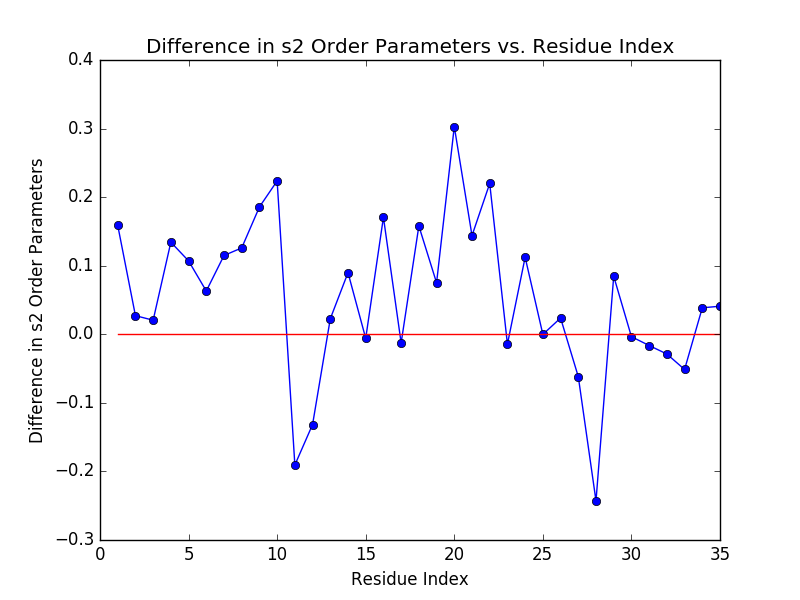
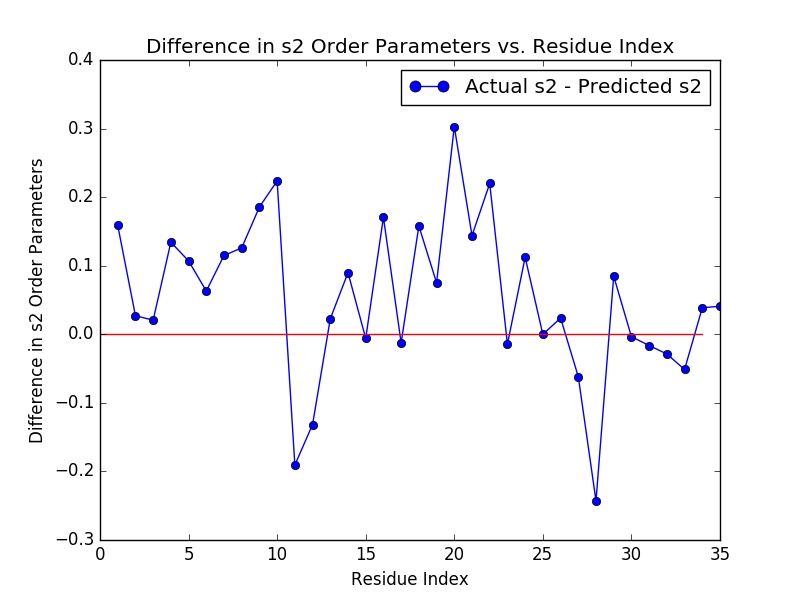
Most recent files for 2l3e Task
Updated build_model_2l3e.py:
* to make plots for resid vs. difference in s2 order parameters (actual
- predicted) for all seven bond vectors
-updated (C1’, H1’) plot - I found a cleaner way to make these plots
* to make a plot of actual vs. predicted s2 order parameters for 2l3e
with information from all seven bond vectors color-coded on one plot

Changed region(s): [[0.5, 0.09, 0.9062, 0.18], [0.875, 0.54, 0.9062, 0.57], [0.125, 0.54, 0.1562, 0.57]]

diff --git a/scripts/build_model_2l3e.py b/scripts/build_model_2l3e.py
@@ -26,8 +26,8 @@ print(reg.score(x_test, y_test))
 ### Compute feature importances ###
 print(reg.coef_)
 ### Predict s2 order parameters ###
-print reg.predict(x_train) #predicted s2 values for all RNAs but 2l3e 
-s2 = reg.predict(x_train)
+print reg.predict(x_test) #predicted s2 values for 2l3e only  
+s2 = reg.predict(x_test)
 s2.tolist()
 ### Save predictive model ###
 joblib.dump(reg, "LR_10.0A_2l3e.pkl", compress=3) 
@@ -53,15 +53,56 @@ plt.legend(handles=[red_patch, blue_patch])
 plt.show()
 
 ### Plotting change in s2 Order Parameters vs Residue Index ###
-x = resid_index
+import matplotlib.lines as mlines
+import matplotlib.pyplot as plt
+x1 = resid_index
+x2 = 0
+y3 = 0
 y = np.subtract(y2, y1)
 y = y.tolist()
-b = []
-for i in x:
-	b.append(i * 0)
 plt.title('Difference in s2 Order Parameters vs. Residue Index')
-plt.plot(x,y, marker='o', linestyle='-', color='b')
-b = plt.plot(x,b, marker='None', linestyle='-', color='r')
+plt.plot(x1,y, marker='o', linestyle='-', color='b')
+plt.plot(x1*y3, marker='None', linestyle='-', color='r')
+blue_line = mlines.Line2D([],[], color='blue', marker='o', markersize=8, label='Actual - Predicted s2 Order Parameters')
+plt.legend(handles=[blue_line])
 plt.xlabel('Residue Index')
 plt.ylabel('Difference in s2 Order Parameters')
+plt.show()
+
+### Plotting Actual s2 order parameters vs. Predicted s2 order parameters ###
+# Actual 2l3e s2 order parameters
+x = [0.797367906216, 0.860580382116, 0.85834926324, 0.853475290909, 0.84357737211, 0.85192871712, 0.856036850328, 0.826133435015, 0.761739309437, 0.665135868177, 0.453229570858, 0.201521645996, 0.809433987834, 0.853889974207, 0.865520170334, 0.850794106766, 0.829504396303, 0.817513651735, 0.802298426107, 0.757504276967, 0.758665738462, 0.773312621189, 0.866488403225, 0.874876185351, 0.862149149714, 0.858208068062, 0.866965686516, 0.610199028269, 0.870025692183, 0.874797518299, 0.864267087396, 0.841471668278, 0.842565632659, 0.818741020547, 0.782915125881, 0.835262157743, 0.849284670213, 0.859660505959, 0.860814379415, 0.847453251849, 0.831138948291, 0.815544812019, 0.799283071469, 0.811626239916, 0.81472899248, 0.698090605191, 0.57109343066, 0.470150178151, 0.362028396382, 0.818951136094, 0.826512552458, 0.82805558862, 0.806618291692, 0.791630762989, 0.57520474948, 0.710715821944, 0.82653742244, 0.83335132482, 0.827892511079, 0.806840390225, 0.814897676407, 0.806696144196, 0.807980407878, 0.814215193123, 0.812090614628, 0.720134378141, 0.572074815485, 0.493056803336, 0.200326011493, 0.843458938273, 0.856641434625, 0.811134529589, 0.844944905513, 0.761653846319, 0.49244675259, 0.753542918394, 0.846242838066, 0.847078897902, 0.82179146662, 0.824002668095, 0.826231136339, 0.832038711102, 0.828714542151, 0.861112734155, 0.850526715075, 0.812798696368, 0.84822100404, 0.822728202034, 0.874904394505, 0.867206635447, 0.854837179833, 0.865127594001, 0.862650338333, 0.8523181086, 0.846256226026, 0.80849970126, 0.810912551567, 0.783033000952, 0.850114682817, 0.842083972225, 0.790685363269, 0.851955697785, 0.869741947045, 0.849369708369, 0.833262831842, 0.839436763634, 0.841538999829, 0.837028010192, 0.838615856332, 0.551313568752, 0.828643820433, 0.780694820364, 0.459574067645]
+# Predicted 2l3e s2 order parameters
+y = [0.6384418447989992, 0.8334062959431285, 0.8378405896281069, 0.7191664900095447, 0.7365458088737709, 0.7888370941796452, 0.7411246293713825, 0.7001611273366437, 0.5760819907478065, 0.4414679112322862, 0.6439058726785942, 0.33313186611131523, 0.7868219267121075, 0.7640205236415312, 0.8714147236804146, 0.6801799803161701, 0.842158525403568, 0.6595779458962869, 0.7272586109951267, 0.4546374387498549, 0.6147569551434617, 0.5533953239333165, 0.8809345158553865, 0.7625756295645274, 0.8623443616119395, 0.8344813076011455, 0.9287273670112455, 0.8531697828337437, 0.7854116456526989, 0.8782824093406976, 0.8806280921395488, 0.8702216408227617, 0.8938667203413952, 0.7801421362731886, 0.7419864081349459, 0.89285718430354, 0.7501011047974606, 0.8715270449935779, 0.8419271783632059, 0.8519885206829716, 0.8066289387212897, 0.6752119485258457, 0.7249117714714697, 0.7237392353569219, 0.7682433945617306, 0.5375660184790483, 0.34827656913424115, 0.6254519911275558, 0.24393267566957438, 0.7904397072982186, 0.661591876749221, 0.7079403705909868, 0.6979317771203626, 0.6783460374948758, 0.41132016126683074, 0.6152840972192706, 0.7013152616684548, 0.8048554844859341, 0.7607425176740994, 0.7129520560910103, 0.8142049022757292, 0.7252434204431359, 0.6642270484841075, 0.7558973159830253, 0.7218574924606445, 0.5525581063506813, 0.31259145396146143, 0.5824018701188407, 0.32028535372253925, 0.7707411692664368, 0.7543917144488856, 0.6573314359242965, 0.6646895439266782, 0.6976883856474394, 0.40525629765170096, 0.6765352051348363, 0.7155214781022872, 0.7609378224070558, 0.7572736962981208, 0.7748401383155892, 0.6607726165870524, 0.8393281087487521, 0.7041274472228813, 0.7896456627526589, 0.7942919176504046, 0.5108615482028174, 0.7764855153974757, 0.85357163938772, 0.907412238982858, 0.846130925395945, 0.6780701735741743, 0.8696475753356931, 0.8328071798860657, 0.8375301721346229, 0.8838060564485406, 0.7308973260287572, 0.7673456518524733, 0.6901023169762694, 0.8411134982655522, 0.8267852765964008, 0.5587215414901989, 0.7906790360141718, 0.8673225653677259, 0.823041648023976, 0.8664506660894495, 0.7385888641802032, 0.7374650946855497, 0.7615120695135051, 0.7608785642967899, 0.35125137029624015, 0.7434542296251079, 0.7073653068667858, 0.360162630269054]
+# Title Plot
+plt.title('Actual vs. Predicted s2 Order Parameters for 2l3e')
+# (C1', H1')
+plt.plot(x[0:35],y[0:35], marker='o', linestyle='None', color='r')
+# (C2, H2)
+plt.plot(x[35:40],y[35:40], marker='o', linestyle='None', color='k')
+# (C5, H5)
+plt.plot(x[40:60],y[40:60], marker='o', linestyle='None', color='g')
+# (C6, H6)
+plt.plot(x[60:80],y[60:80], marker='o', linestyle='None', color='b')
+# (C8, H8)
+plt.plot(x[80:95],y[80:95], marker='o', linestyle='None', color='m')
+# (N1, H1)
+plt.plot(x[95:105],y[95:105], marker='o', linestyle='None', color='y')
+# (N3, H3)
+plt.plot(x[105:113],y[105:113], marker='o', linestyle='None', color='c')
+# Create legend for all seven bond vectors
+red_line = mlines.Line2D([],[], color='red', marker='o', markersize=8, label="(C1', H1')")
+black_line = mlines.Line2D([],[], color='black', marker='o', markersize=8, label="(C2, H2)")
+green_line = mlines.Line2D([],[], color='green', marker='o', markersize=8, label="(C5, H5)")
+blue_line = mlines.Line2D([],[], color='blue', marker='o', markersize=8, label="(C6, H6)")
+magenta_line = mlines.Line2D([],[], color='magenta', marker='o', markersize=8, label="(C8, H8)")
+yellow_line = mlines.Line2D([],[], color='yellow', marker='o', markersize=8, label="(N1, H1)")
+cyan_line = mlines.Line2D([],[], color='cyan', marker='o', markersize=8, label="(N3, H3)")
+# Plot legend
+plt.legend(handles=[red_line, black_line, green_line, blue_line, magenta_line, yellow_line, cyan_line])
+# Label x-axis
+plt.xlabel('Actual 2l3e s2 Order Parameters')
+# Label y-axis
+plt.ylabel('Predicted 2l3e s2 Order Parameters')
+# Show Plot
 plt.show()
